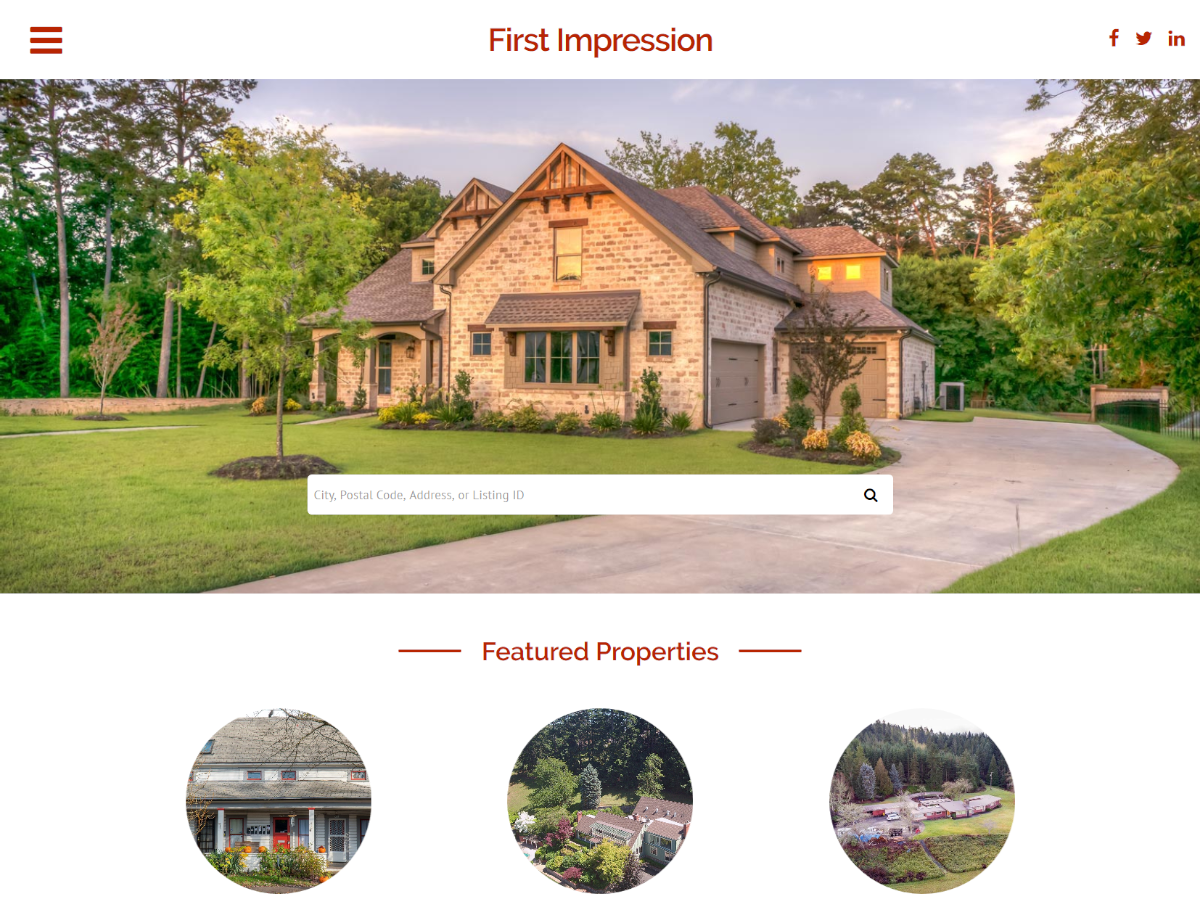
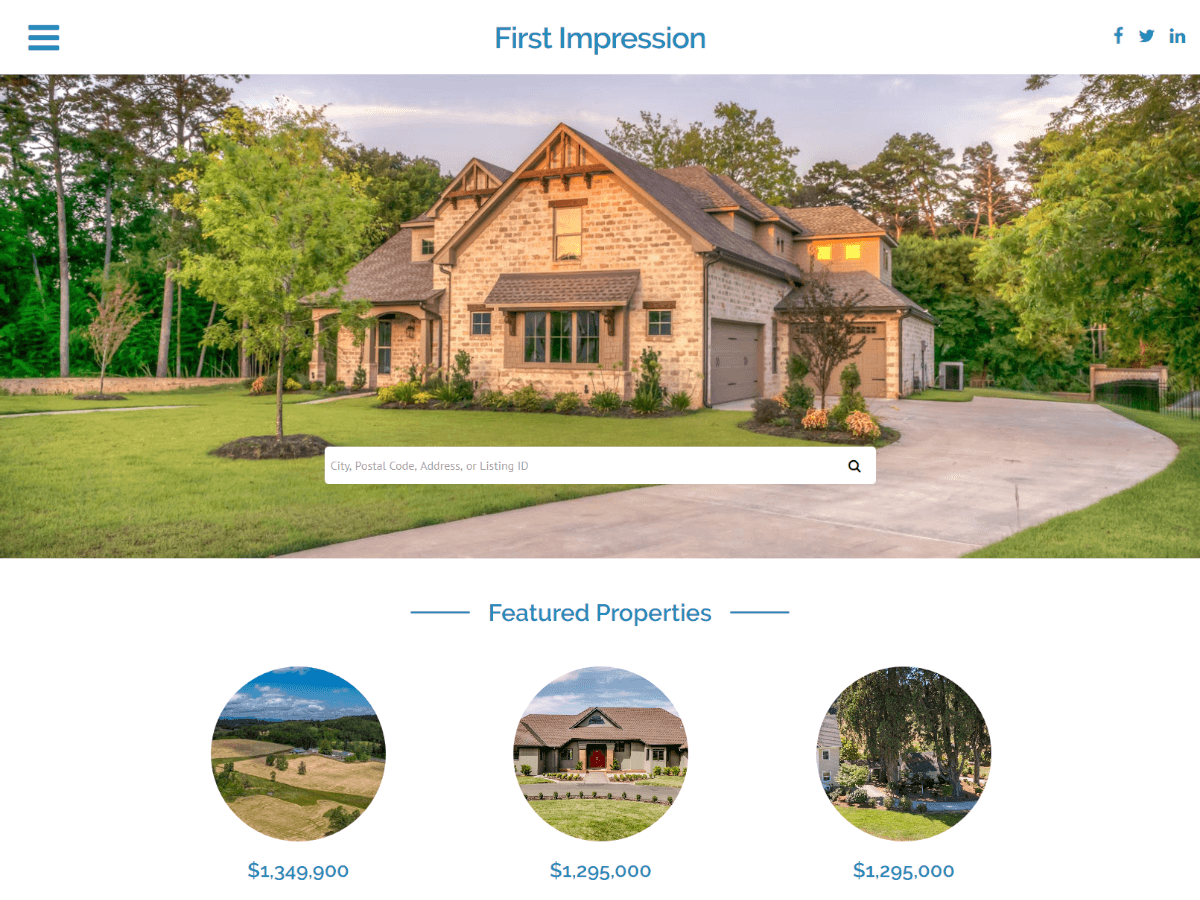
Changed AE colors and names to IDX colors and names

diff --git a/lib/plugins.php b/lib/plugins.php
@@ -3,7 +3,7 @@
  * Recommends plugins for use in First Impression theme
  *
  * @package First Impression\Plugins
- * @author  Agent Evolution
+ * @author  IDX, LLC
  * @license GPL-2.0+
  * @link    
  */
